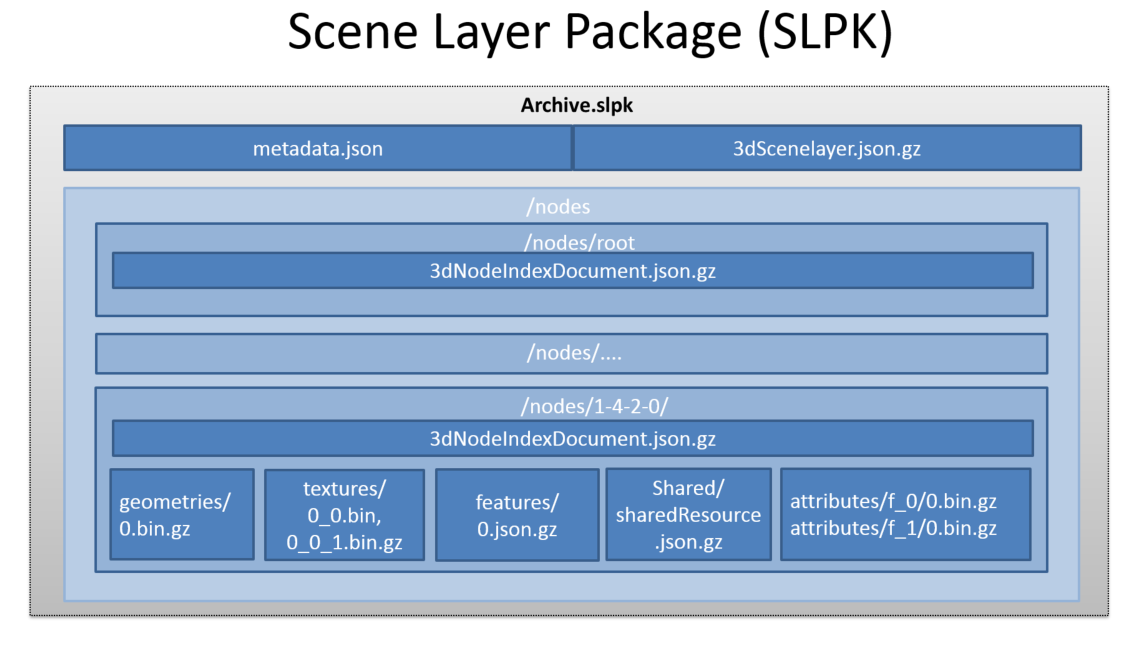
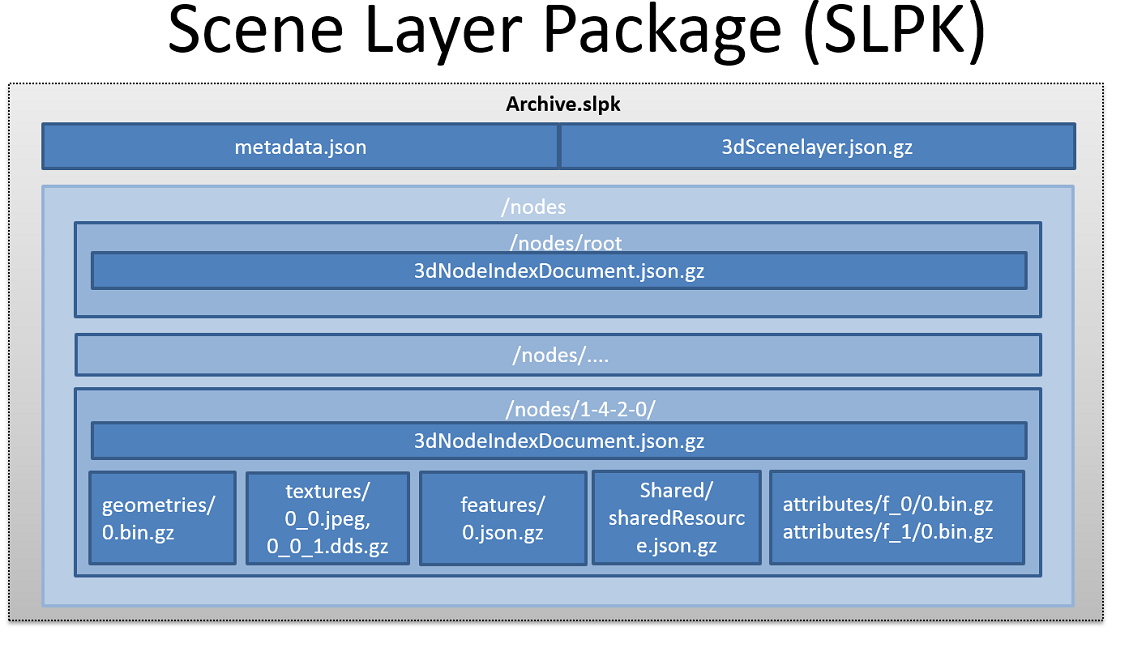
Updated I3S Version to 1.6; renamed texture resources to reflect content type

Changed region(s): [[0.0, 0.0, 0.9773, 0.9846], [0.4276, 0.5231, 0.5497, 0.5846]]

diff --git a/profiles/meshpyramids/examples/3dSceneLayer.js b/profiles/meshpyramids/examples/3dSceneLayer.js
@@ -1,5 +1,5 @@
 /**
-	Example I3S 1.5 3d Scene Layer Resource for the Meshpyramids profile.
+	Example I3S 1.6 3d Scene Layer Resource for the Meshpyramids profile.
 */
 {
 	"id": 0, // the ID of this layer, unique within a 3dSceneService.
@@ -32,13 +32,13 @@
 		"profile": "meshpyramids", // Indicates which profile this scene store fulfills. One of {features-meshes, features-polygons, features-points, features-lines, analytics, meshpyramids, pointclouds, symbols}.
 		"resourcePattern": ["3dNodeIndexDocument", "Geometry", "Texture"], // The resources need for rendering and the required order in which the client should load them.
 		"rootNode": "./nodes/root", // relative URL to root node resource.
-		"version": "1.5", // format version of this resource; used here again if this store hasn't been served by a 3D Scene Server.
+		"version": "1.6", // format version of this resource; used here again if this store hasn't been served by a 3D Scene Server.
 		"extent": [47.385, 8.54, 47.455, 8.72], // the spatial extent of this store, in the horizontal indexCRS
 		"indexCRS": "http://www.opengis.net/def/crs/EPSG/0/4326", // the horizontal CRS used for all minimum bounding spheres (mbs) in this cache, identified by a OGC URL.
 		"vertexCRS": "http://www.opengis.net/def/crs/EPSG/0/4326", // the horizontal CRS used for all "vertex positions" in this cache, identified by a OGC URL.
-		"nidEncoding": "application/vnd.esri.i3s.json+gzip; version=1.5", // MIME type for the encoding used for the Node Index Documents
-		"featureEncoding": "application/vnd.esri.i3s.json+gzip; version=1.5",  // MIME type for the encoding used for the Feature Data Resources
-		"geometryEncoding": "application/octet-stream+gzip; version=1.5", // MIME type for the encoding used for the Geometry Resources
+		"nidEncoding": "application/vnd.esri.i3s.json+gzip; version=1.6", // MIME type for the encoding used for the Node Index Documents
+		"featureEncoding": "application/vnd.esri.i3s.json+gzip; version=1.6",  // MIME type for the encoding used for the Feature Data Resources
+		"geometryEncoding": "application/octet-stream+gzip; version=1.6", // MIME type for the encoding used for the Geometry Resources
 		"textureEncoding": ["image/jpeg", "image/vnd-ms.dds"], // MIME types for the encoding used for the Texture Resources
 		"lodType": "MeshPyramid", // optional field to indicate which LoD Generation Scheme is used in this store. Selected from {*MeshPyramid*, FeatureTree, Thinning, Clustering, Generalizing}.
 		"lodModel": "node-switching", // optional field to indicate which LoD Switching mode clients have to use. One of {*node-switching*, feature-switching, none}.

diff --git a/profiles/points/examples/3dNodeIndexDocument.js b/profiles/points/examples/3dNodeIndexDocument.js
@@ -1,5 +1,5 @@
 /**
-	Example i3s 1.5 3d Node Index Document Resource for the points profile.
+	Example i3s 1.6 3d Node Index Document Resource for the points profile.
 */
 {
 	"id": "5-1", // Tree Key ID. This node is thus two level below the root node. On the first level, it's the fifth node, on the second level, it's the first. The 0 is always the root node.

diff --git a/profiles/meshpyramids/examples/SharedResource.js b/profiles/meshpyramids/examples/SharedResource.js
@@ -1,5 +1,5 @@
 /**
-	Example I3S 1.5 Shared Data Resource with Material Definitions and Texture Definitions.
+	Example I3S 1.6 Shared Data Resource with Material Definitions and Texture Definitions.
 */
 {
 	"materialDefinitions": { // a Map of all Material Definitions needed by features of this node.

diff --git a/profiles/meshpyramids/examples/3dNodeIndexDocument.js b/profiles/meshpyramids/examples/3dNodeIndexDocument.js
@@ -1,5 +1,5 @@
 /**
-	Example I3S 1.5 3d Node Index Document Resource for the Meshpyramids profile.
+	Example I3S 1.6 3d Node Index Document Resource for the Meshpyramids profile.
 */
 {
 	"id": "5-1", // Tree Key ID. This node is thus is 3 levels below the root node (root node is at level 1).

diff --git a/format/Indexed 3d Scene Layer Format Specification.md b/format/Indexed 3d Scene Layer Format Specification.md
@@ -1,7 +1,7 @@
 <h2>Esri Indexed 3d Scene Layer (I3S) and <br>
 Scene Layer Package (*.slpk) Format Specification</h2>
 
-<p>Version 1.5, Sep. 14, 2016</p>
+<p>Version 1.6, Sep. 14, 2016</p>
 <p style="font-size:80%">
 <em>Contributors:</em> Tamrat Belayneh, Javier Gutierrez, Markus Lipp, Johannes Schmid, Simon Reinhard, Thorsten Reitz, Chengliang Shan, Ben Tan, Moxie Zhang, Pascal M&uuml;ller, Dragan Petrovic, Sud Menon<br>
 <em>Acknowledgements:</em> Bart van Andel, Fabien Dachicourt </p>
@@ -174,7 +174,7 @@ to the selection of spatial reference systems to use:</p>
 
 <h3><a name="_3_1">Height Models</a></h3>
 
-The specification accommodates declaration of a vertical coordinate system that may be ellipsoidal (elevation/height defined with respect to a reference ellipsoid) or orthometric (elevation/height defined with respect to a reference geoid/gravity surface). This allows I3S to be applied across a diverse range of fields and applications where the particular definition of elevation/height is of importance.  At version 1.5 I3S has added vertical coordinate system in the form of vcsWkid to the 3dSceneLayerInfo resource.
+The specification accommodates declaration of a vertical coordinate system that may be ellipsoidal (elevation/height defined with respect to a reference ellipsoid) or orthometric (elevation/height defined with respect to a reference geoid/gravity surface). This allows I3S to be applied across a diverse range of fields and applications where the particular definition of elevation/height is of importance. At version 1.5 I3S has added vertical coordinate system in the form of vcsWkid to the 3dSceneLayerInfo resource.
 
 <pre><code>
 	"spatialReference": // The spatial reference of the layer including the vertical coordinate system. wkt is included to support custom spatial references
@@ -728,19 +728,19 @@ applied.</p>
 		<td>nidEncoding</td>
 		<td>MIMEType</td>
 		<td>MIME type for the encoding used for the Node Index Documents; format:<br>
-		<code>application/vnd.esri.I3S.json+gzip; version=1.5</code></td>
+		<code>application/vnd.esri.I3S.json+gzip; version=1.6</code></td>
 	</tr>
 	<tr>
 		<td>featureEncoding</td>
 		<td>MIMEType</td>
 		<td>MIME type for the encoding used for the Feature Data Resources; format:<br>
-		<code>application/vnd.esri.I3S.json+gzip; version=1.5</code></td>
+		<code>application/vnd.esri.I3S.json+gzip; version=1.6</code></td>
 	</tr>
 	<tr>
 		<td>geometryEncoding</td>
 		<td>MIMEType</td>
 		<td>MIME type for the encoding used for the Geometry Resources; format:<br>
-		<code>application/octet-stream; version=1.5</code></td>
+		<code>application/octet-stream; version=1.6</code></td>
 	</tr>
 	<tr>
 		<td>textureEncoding</td>
@@ -2199,7 +2199,7 @@ The following entries are permitted in the Metadata.json file that is part of ev
 	<tr>
 		<td>I3SVersion</td>
 		<td>True</td>
-		<td>One of {1.2, 1.3, 1.4, *1.5*}</td>
+		<td>One of {1.2, 1.3, 1.4, *1.6*}</td>
 	</tr>
 	<tr>
 		<td>nodeCount</td>
